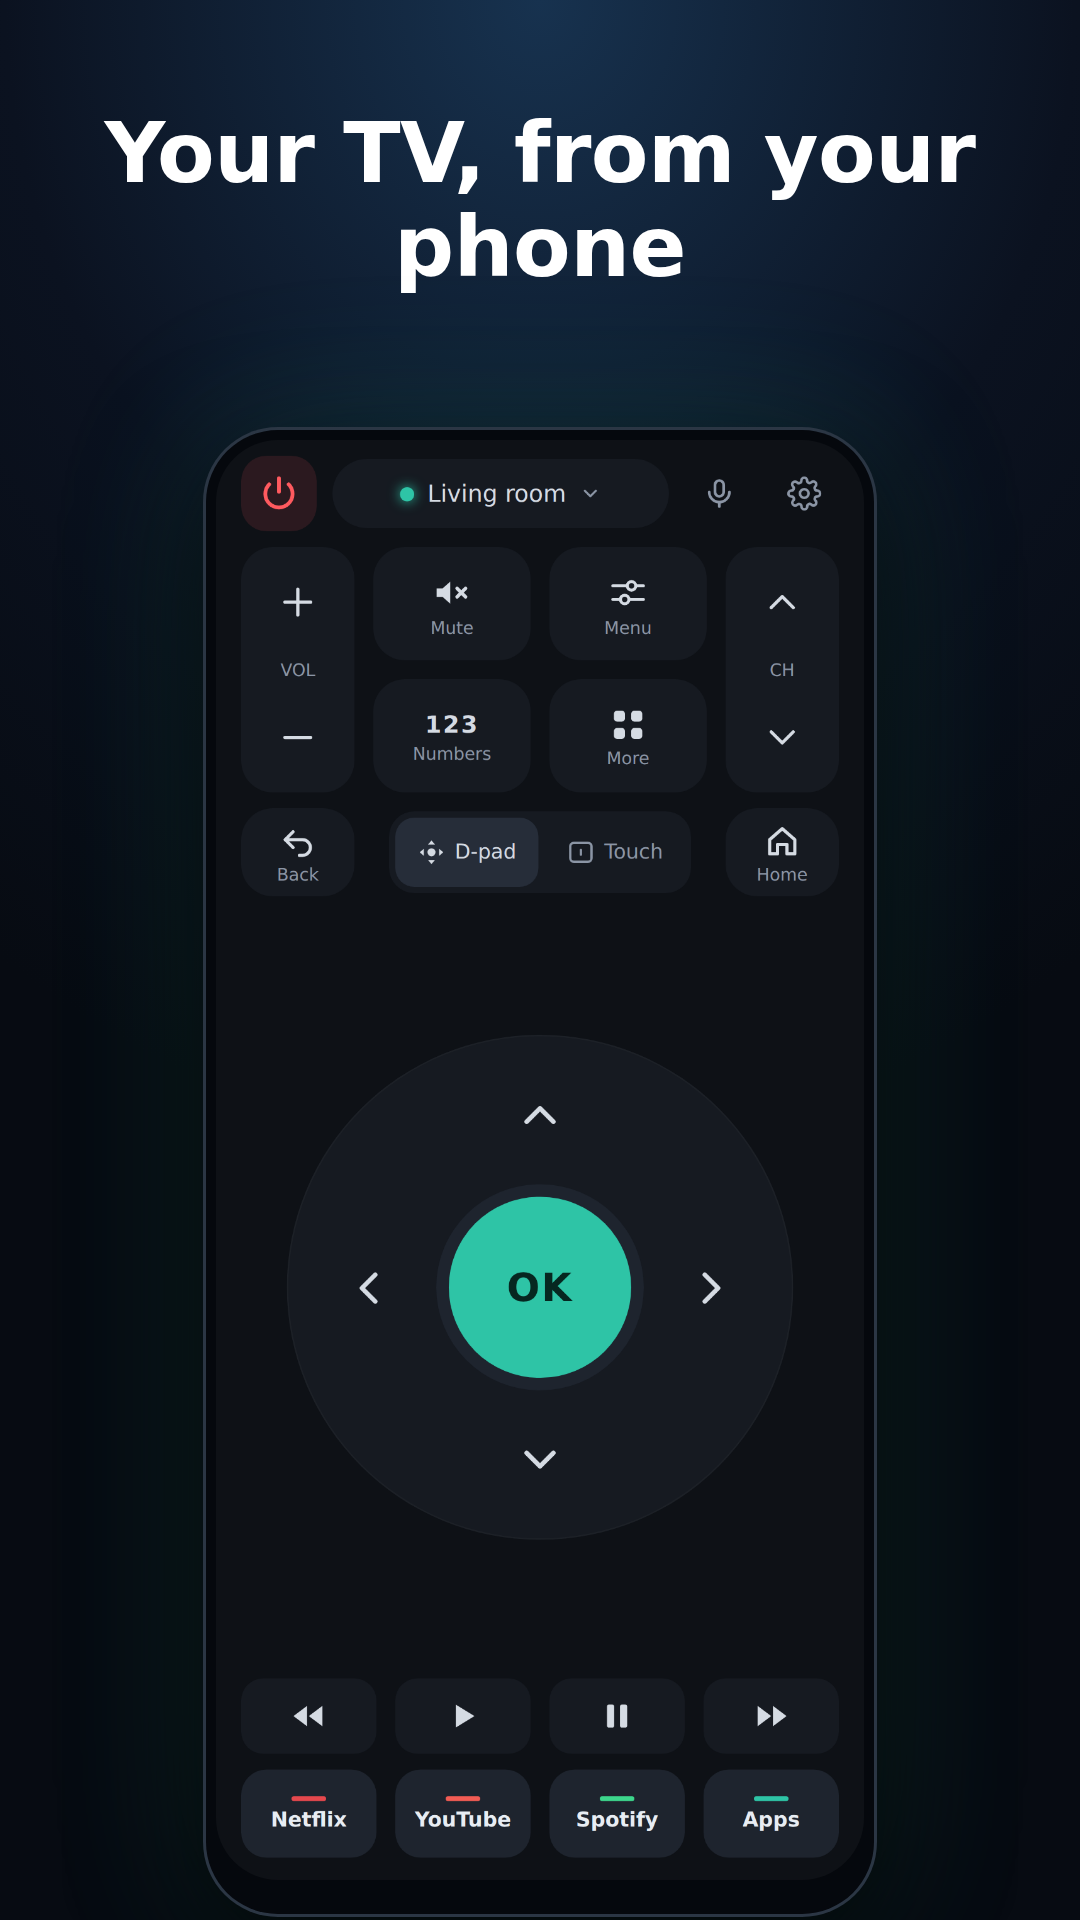
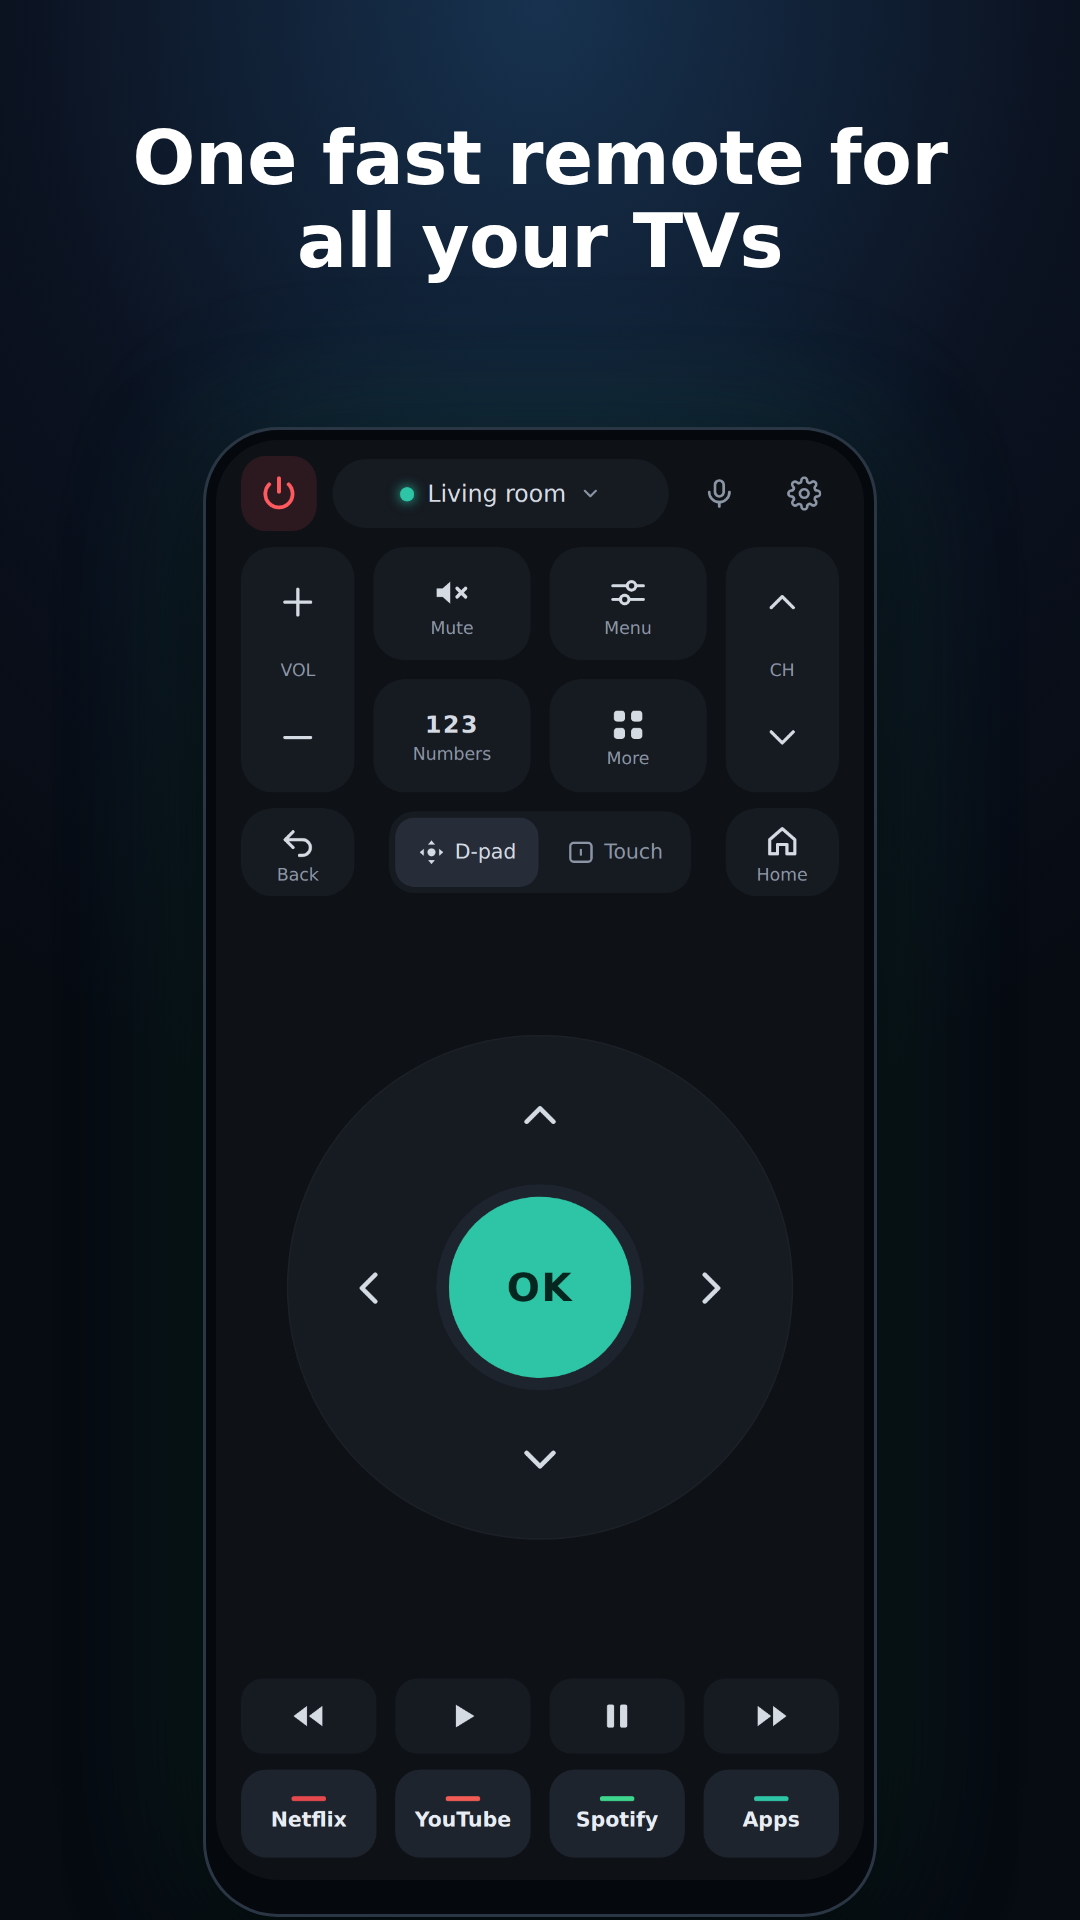
TV remote store: English-only images, brand + search-keyword titles
- Screenshots and feature graphic in English for every store language; the
  localized listing text says the app is in English and Hebrew.
- Title options lead with a short brand and search keywords (universal / smart TV
  remote); call auto-mute moves to the short description and images.
- Wording avoids implying support for every TV.

Claude-Session: https://claude.ai/code/session_014Rxf8XLudsMs3P6qi7tbxe

Changed region(s): [[0.0917, 0.0625, 0.9167, 0.1562]]

diff --git a/samsung-remote/store/tools/make-screenshots.js b/samsung-remote/store/tools/make-screenshots.js
@@ -11,13 +11,13 @@ const TMP = path.join(OUT, '.raw');
 fs.mkdirSync(TMP, { recursive: true });
 
 const CAPTIONS = {
-  en: ['Your TV, from your phone', 'Phone rings? The TV hushes.', 'Remote right on your lock screen', 'Simple mode: big, clear buttons',
-    'Say an app – it opens', 'Many presses, one tap', 'Falls asleep? TV turns off.', 'Every TV. No account. No tracking.'],
+  en: ['One fast remote for all your TVs', 'Phone rings? The TV hushes.', 'Remote right on your lock screen', 'Simple mode: big, clear buttons',
+    'Say an app – it opens', 'Many presses, one tap', 'Falls asleep? TV turns off.', 'All your TVs. No account. No tracking.'],
   he: ['הטלוויזיה שלכם, מהטלפון', 'מתקשרים? הטלוויזיה משתתקת', 'השלט כבר על מסך הנעילה', 'מצב פשוט: כפתורים גדולים וברורים',
     'אומרים אפליקציה – והיא נפתחת', 'הרבה לחיצות, נגיעה אחת', 'נרדמתם? הטלוויזיה נכבית', 'כל הטלוויזיות. בלי חשבון, בלי מעקב'],
 };
 const FEATURE = {
-  en: { h: 'The TV remote that hushes for calls', s: 'Wi-Fi control · Lock-screen remote · Private' },
+  en: { h: 'The advanced remote for your smart TVs', s: 'Fast · Clean · Mutes the TV when you get a call' },
   he: { h: 'השלט שמשתיק את הטלוויזיה כשמתקשרים', s: 'שליטה ב-Wi-Fi · שלט במסך הנעילה · פרטי' },
 };
 const TEXT = {
@@ -195,7 +195,8 @@ async function frame(b, lang, shots) {
 
 (async () => {
   const b = await chromium.launch();
-  for (const lang of ['en', 'he']) await frame(b, lang, await scenes(b, lang));
+  // English images serve every store language (the listing text is localized).
+  for (const lang of ['en']) await frame(b, lang, await scenes(b, lang));
   await b.close();
   fs.rmSync(TMP, { recursive: true, force: true });
   console.log('done');

diff --git a/samsung-remote/store/screenshots-plan.md b/samsung-remote/store/screenshots-plan.md
@@ -6,7 +6,7 @@ Target folder for the finished images: `store/screenshots/` (phone) and `store/f
 - **Phone screenshots:** PNG or JPEG (no transparency), 16:9 or 9:16, each side between 320 px and 3840 px, long side max 2× the short side. Recommended: **1080 × 1920** (portrait) or 1080 × 2340. Play needs at least 2; upload all 8. For the app to be eligible for richer placements Play asks for at least 4 screenshots of ≥1080 px.
 - **Feature graphic:** **1024 × 500** PNG or JPEG, no transparency.
 - Layout for each screenshot: caption on top (large, bold, 2 lines max), real app screen below inside a simple phone frame, dark background matching the app's dark design.
-- Make one EN set and one HE set (Play Console lets you upload screenshots per language). In the Hebrew set use the app with its Hebrew UI.
+- One English set for every store language (international audience); the listing text is localized and says the app is available in English and Hebrew.
 
 ## Policy guardrails for graphics
 - No brand logos or brand names in the captions or the feature graphic. A real app screen may naturally show the TV's model name in the device list – keep it neutral (e.g. rename the TV to "Living room" before capturing).
@@ -17,14 +17,14 @@ Target folder for the finished images: `store/screenshots/` (phone) and `store/f
 
 | # | Screen to capture | Caption EN (≤6 words) | Caption HE (≤6 words) |
 |---|---|---|---|
-| 1 | Main remote screen, full layout (power, d-pad, volume/channel, colour keys), connected to "Living room" TV | Your TV, from your phone | הטלוויזיה שלכם, מהטלפון |
+| 1 | Main remote screen, full layout (power, d-pad, volume/channel, colour keys), connected to "Living room" TV | One fast remote for all your TVs | הטלוויזיה שלכם, מהטלפון |
 | 2 | Call auto-mute settings screen with the switch ON, ideally with an incoming-call overlay composited above it | Phone rings? The TV hushes. | מתקשרים? הטלוויזיה משתתקת |
 | 3 | Phone lock screen showing the notification remote (power, volume, mute, play/pause, X) | Remote right on your lock screen | השלט כבר על מסך הנעילה |
 | 4 | Simple mode – few, big buttons | Simple mode: big, clear buttons | מצב פשוט: כפתורים גדולים וברורים |
 | 5 | Voice: listening dialog, plus the apps panel / shortcut buttons behind it | Say an app – it opens | אומרים אפליקציה – והיא נפתחת |
 | 6 | Macro recorder: a recorded sequence of key presses with "play" and voice-trigger options | Many presses, one tap | הרבה לחיצות, נגיעה אחת |
 | 7 | Sleep timer picker with presets + the countdown notification | Falls asleep? TV turns off. | נרדמתם? הטלוויזיה נכבית |
-| 8 | TV list with 2–3 renamed TVs ("Living room", "Bedroom", "Kids' room") + home-screen widget / Quick Settings tiles inset | Every TV. No account. No tracking. | כל הטלוויזיות. בלי חשבון, בלי מעקב |
+| 8 | TV list with 2–3 renamed TVs ("Living room", "Bedroom", "Kids' room") + home-screen widget / Quick Settings tiles inset | All your TVs. No account. No tracking. | כל הטלוויזיות. בלי חשבון, בלי מעקב |
 
 Word counts (checked with a script, punctuation excluded): EN 5, 5, 6, 5, 5, 4, 5, 6 · HE 3, 3, 5, 5, 4, 4, 3, 6.
 
@@ -39,7 +39,7 @@ Layout: dark background, phone with the main remote on the right (in the HE vers
 
 | | English | Hebrew |
 |---|---|---|
-| Headline | The TV remote that hushes for calls | השלט שמשתיק את הטלוויזיה כשמתקשרים |
-| Subline | Wi-Fi control · Lock-screen remote · Private | שליטה ב-Wi-Fi · שלט במסך הנעילה · פרטי |
+| Headline | The advanced remote for your smart TVs | השלט שמשתיק את הטלוויזיה כשמתקשרים |
+| Subline | Fast · Clean · Mutes the TV when you get a call | שליטה ב-Wi-Fi · שלט במסך הנעילה · פרטי |
 
 (Keep "No ads" / "one-time purchase" out of the graphic per the guardrails above; the descriptions carry those points.)

diff --git a/samsung-remote/store/listing-he.md b/samsung-remote/store/listing-he.md
@@ -12,56 +12,44 @@
 
 ## 1. שם האפליקציה — עד 30 תווים
 
-**מומלץ: אפשרות 1.** נשאר צמוד לשם באפליקציה ושם את הפיצ'ר הבולט (השתקה בשיחות) כבר בתוצאות החיפוש.
+בשם נמצאות מילות החיפוש ("שלט", "טלוויזיה חכמה") ושם מותג קצר; ההשתקה בשיחות מובלטת בתיאור הקצר, בצילומי המסך ובתיאור – היא מוכרת, אבל אנשים לא מחפשים אותה.
 
-אפשרות 1 — מומלצת (28 / 30 chars)
+אפשרות 1 — מומלץ — שם מותג קצר (זהה בכל השפות) ומילות החיפוש בעברית (27 / 30 chars)
 ```text
-שלט לטלוויזיה – משתיק בשיחות
+Remoty – שלט לטלוויזיה חכמה
 ```
 
-אפשרות 2 (25 / 30 chars)
+אפשרות 2 — מילות חיפוש בלבד, בלי מותג (28 / 30 chars)
 ```text
-שלט חכם לטלוויזיה ב-Wi-Fi
+שלט אוניברסלי לטלוויזיה חכמה
 ```
 
-אפשרות 3 (25 / 30 chars)
+אפשרות 3 — מתאר את התחושה של האפליקציה (29 / 30 chars)
 ```text
-השלט השקט – שלט לטלוויזיה
-```
-
-אפשרות 4 (21 / 30 chars)
-```text
-שלט לטלוויזיה מהטלפון
-```
-
-אפשרות 5 (26 / 30 chars)
-```text
-שלט הספה – לטלוויזיה החכמה
+שלט חכם לטלוויזיה – מהיר ונקי
 ```
 
 ---
 
 ## 2. תיאור קצר — עד 80 תווים
 
-**מומלץ: אפשרות א'.**
-
-אפשרות א' — מומלצת (72 / 80 chars)
+אפשרות 1 — מומלץ (71 / 80 chars)
 ```text
-שלט Wi-Fi לטלוויזיה החכמה, שמשתיק אותה כשמתקשרים. בלי פרסומות ובלי מנוי.
+שלט Wi-Fi מתקדם, מהיר ונקי לטלוויזיה חכמה – כמה טלוויזיות, בלי פרסומות.
 ```
 
-אפשרות ב' (71 / 80 chars)
+אפשרות 2 (71 / 80 chars)
 ```text
-שולטים בטלוויזיה מהטלפון, גם ממסך הנעילה. פרטי, בלי פרסומות, תשלום אחד.
+שלט אוניברסלי מתקדם: מהיר, נקי, לכל הטלוויזיות בבית – ומשתיק כשמתקשרים.
 ```
 
 ---
 
 ## 3. תיאור מלא — עד 4000 תווים
 
-(3520 / 4000 chars)
+(3533 / 4000 chars)
 ```text
-הטלפון שלכם הופך לשלט מהיר ופרטי לטלוויזיה החכמה – והטלוויזיה משתתקת לבד ברגע שמישהו מתקשר.
+השלט האוניברסלי המתקדם לטלוויזיה החכמה: מהיר, נקי ומלא פיצ'רים חכמים – אפליקציה אחת לכל הטלוויזיות בבית.
 
 ★ מה שונה בשלט הזה
 • אין פרסומות. בכלל. שום חלון קופץ בין לחיצה ללחיצה.

diff --git a/samsung-remote/store/listing-en.md b/samsung-remote/store/listing-en.md
@@ -12,56 +12,49 @@ Policy notes that shaped these texts:
 
 ## 1. App name (title) — max 30 characters
 
-**Recommended: option 1.** It keeps the in-app name "TV Remote" and puts the headline feature (call auto-mute) right in the search result.
+The title carries the search keywords ("universal", "smart TV remote") and a short brand; the call auto-mute is the headline of the short description, the screenshots and the description instead — it sells, but people don't search for it.
 
-Option 1 — recommended (30 / 30 chars)
+Option 1 — recommended — a short brand people can remember, plus the words people actually search for ("universal", "TV remote"). Search on Google Play first that the name "Remoty" isn't taken. (27 / 30 chars)
 ```text
-TV Remote – Auto-Mute on Calls
+Remoty: Universal TV Remote
 ```
 
-Option 2 (29 / 30 chars)
+Option 2 — pure search keywords, no brand (25 / 30 chars)
 ```text
-Wi-Fi TV Remote: Calm Control
+Universal Smart TV Remote
 ```
 
-Option 3 (28 / 30 chars)
+Option 3 — describes the feel of the app (29 / 30 chars)
 ```text
-HushRemote – Wi-Fi TV Remote
+Smart TV Remote: Fast & Clean
 ```
 
-Option 4 (26 / 30 chars)
+Option 4 — brand + keywords, shorter (24 / 30 chars)
 ```text
-Smart TV Remote over Wi-Fi
-```
-
-Option 5 (26 / 30 chars)
-```text
-Couch Remote for Smart TVs
+Remoty – Smart TV Remote
 ```
 
 ---
 
 ## 2. Short description — max 80 characters
 
-**Recommended: option A.**
-
-Option A — recommended (79 / 80 chars)
+Option 1 — recommended (76 / 80 chars)
 ```text
-Wi-Fi remote for your smart TV. Mutes itself on calls. No ads, no subscription.
+Fast, clean universal remote for smart TVs – many TVs, smart extras, no ads.
 ```
 
-Option B (79 / 80 chars)
+Option 2 (77 / 80 chars)
 ```text
-Control your TV from your phone or lock screen. Private, ad-free, one-time buy.
+The advanced Wi-Fi TV remote: fast, clean, multi-TV – and it mutes for calls.
 ```
 
 ---
 
 ## 3. Full description — max 4000 characters
 
-(3977 / 4000 chars)
+(3976 / 4000 chars)
 ```text
-Turn your phone into a fast, private Wi-Fi remote for your smart TV – and let the TV go quiet by itself when your phone rings.
+The advanced universal remote for your smart TV: fast, clean, packed with smart features – one app for all the TVs in your home.
 
 ★ WHY THIS REMOTE IS DIFFERENT
 • No ads. Ever. No pop-ups between button presses.
